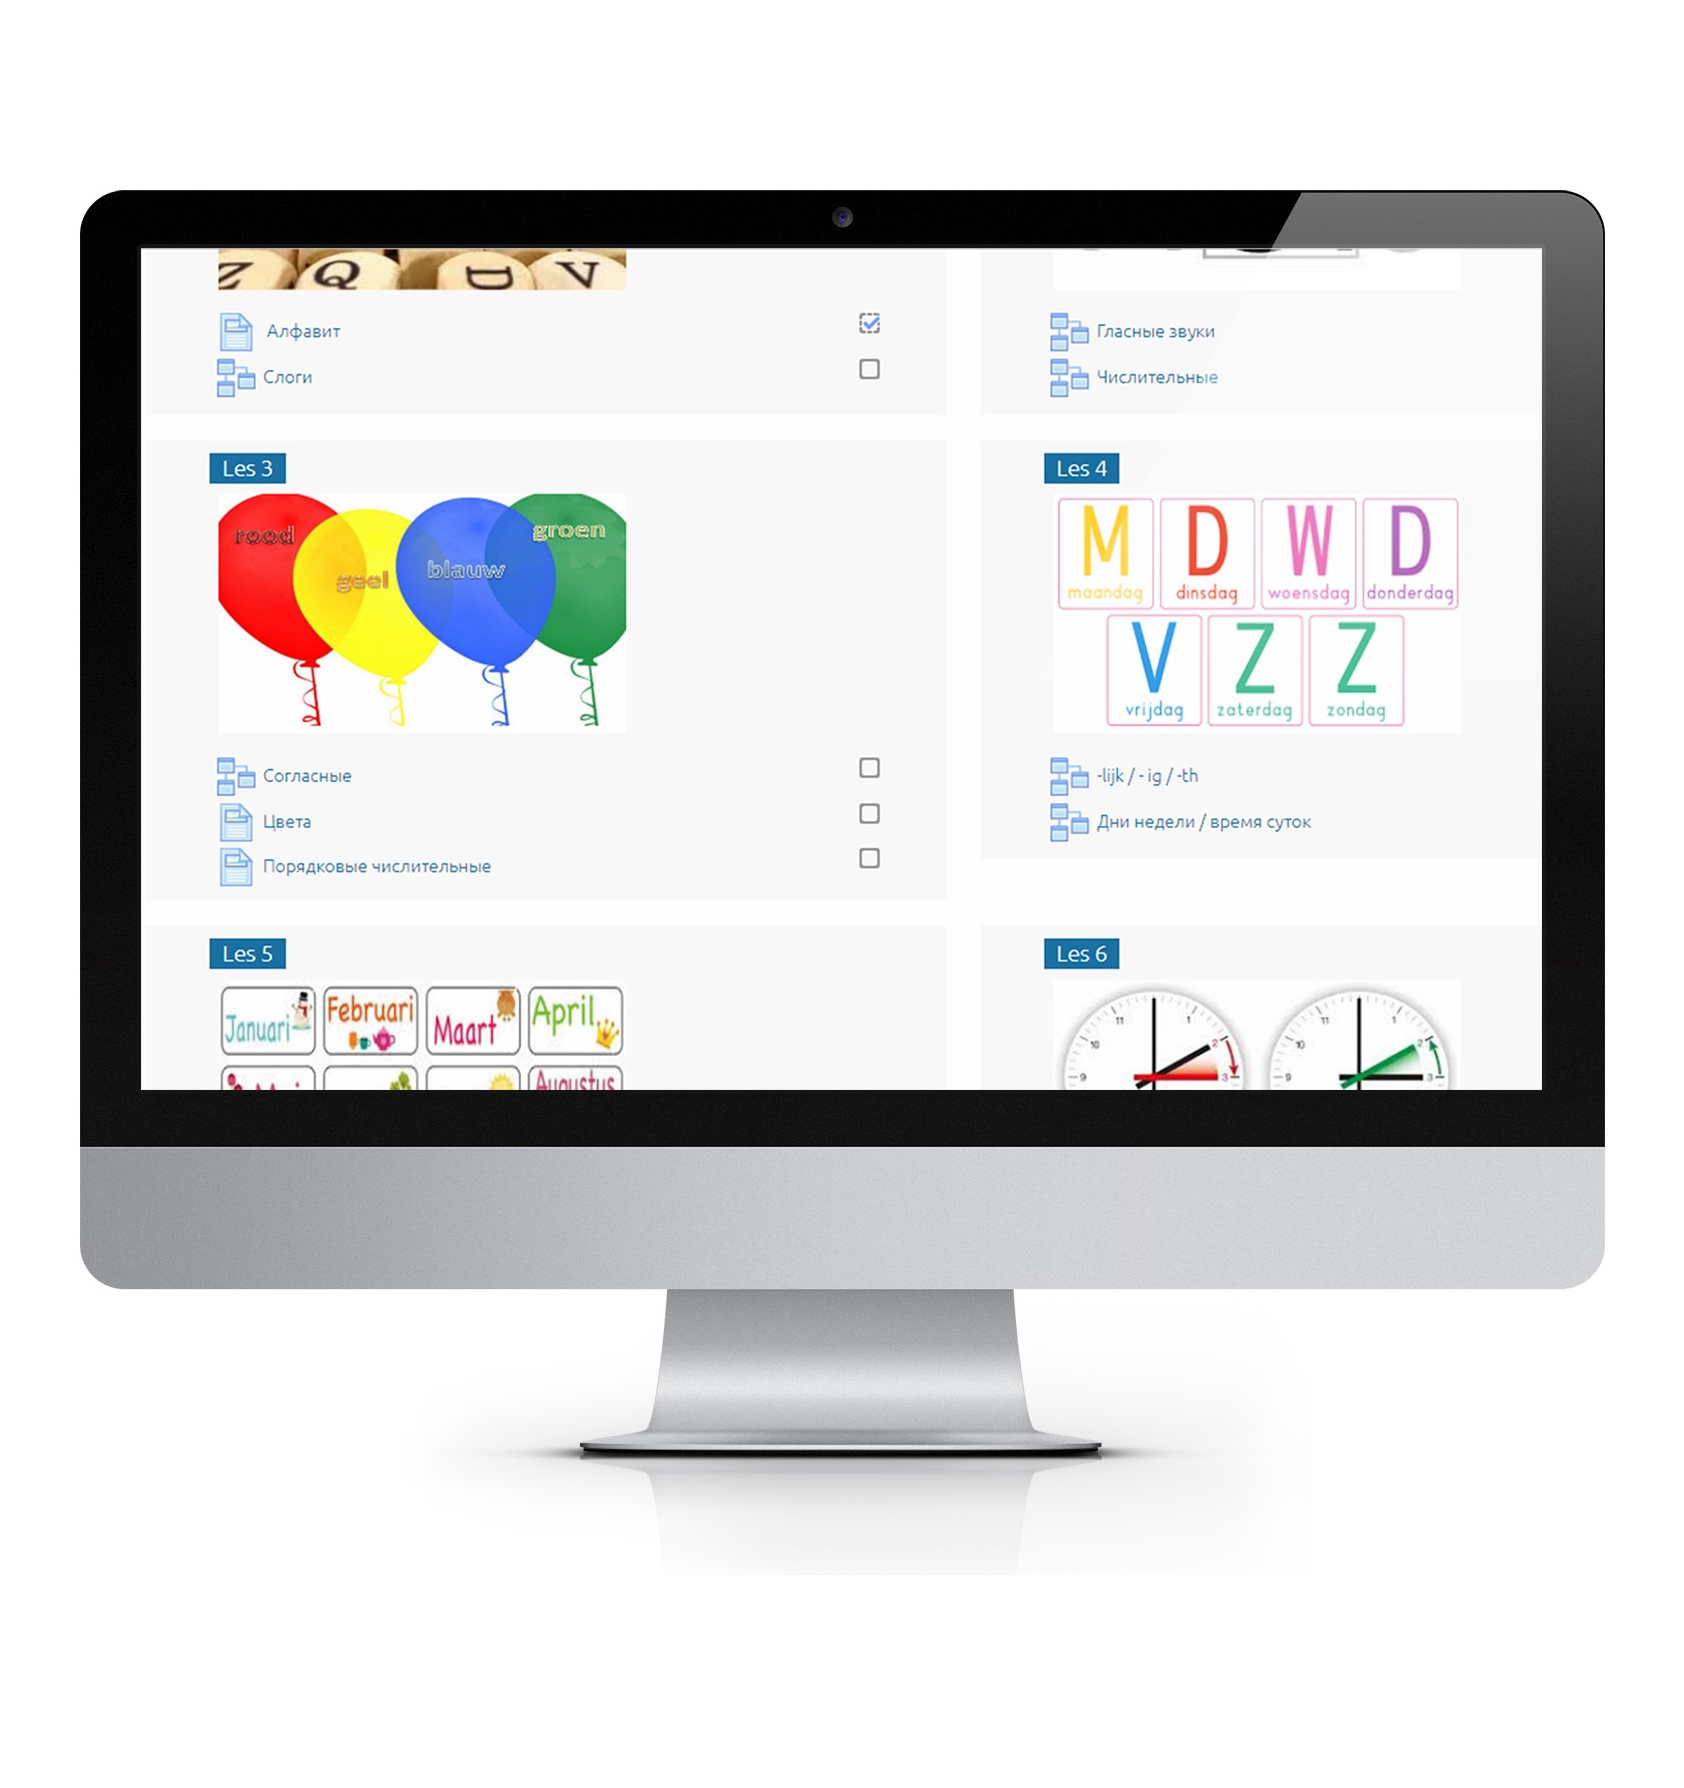
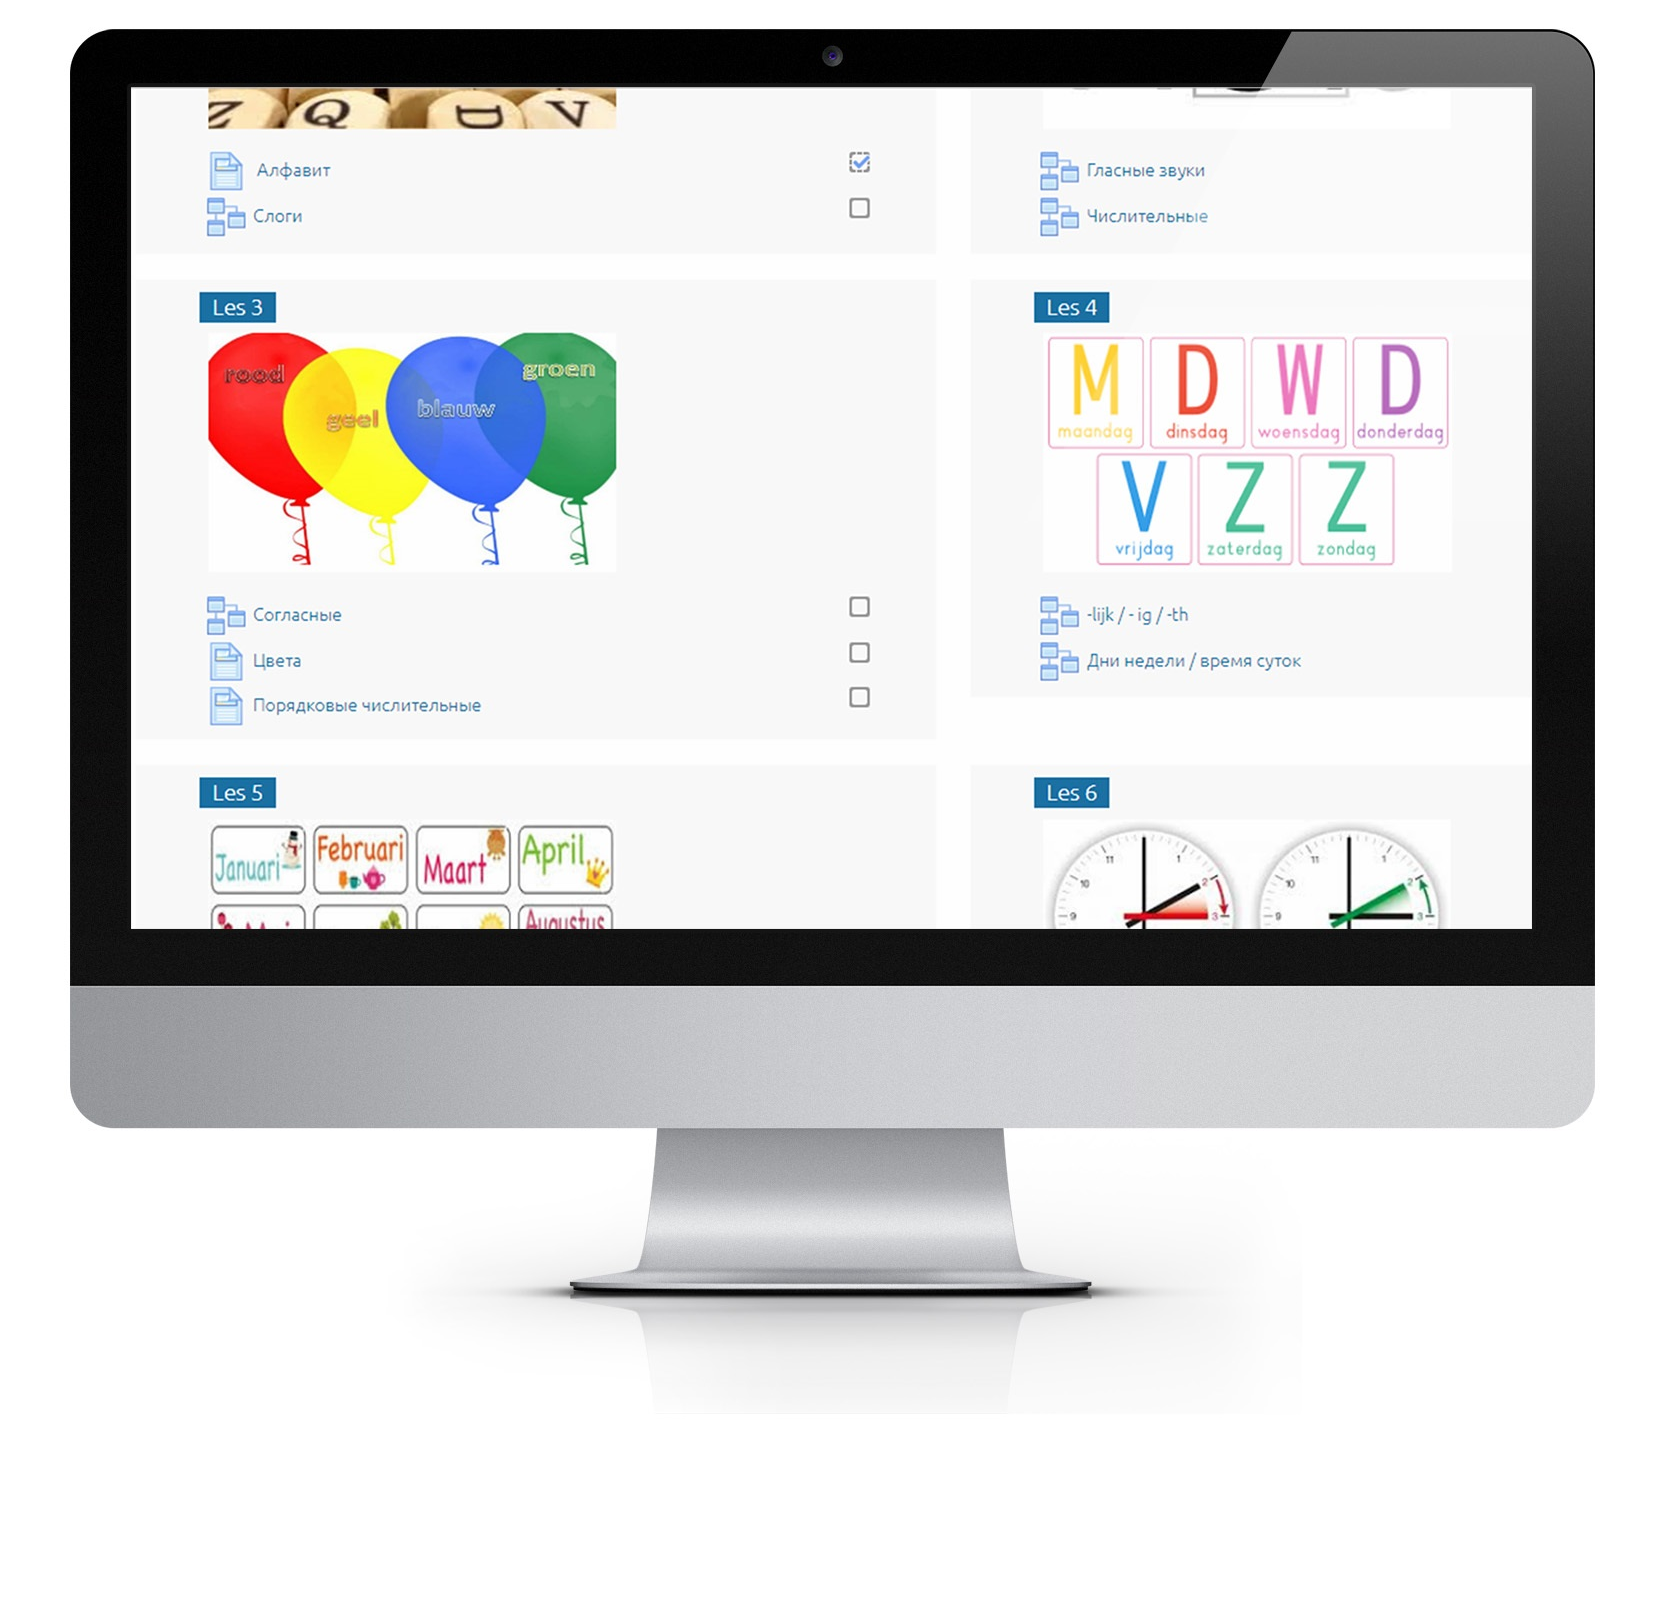
Improved main page heights

Changed region(s): [[0.0312, 0.0, 0.9682, 0.8338], [0.4997, 0.4324, 0.5309, 0.4632]]

diff --git a/css/style.css b/css/style.css
@@ -184,7 +184,7 @@ header {
     border-radius: 30px;
     border: 5px solid #ae1c28;
     width: 90%;
-    margin: .2em auto;
+    margin: .2em auto 1em;
 }
 
 /* #main-bottom div h2{
